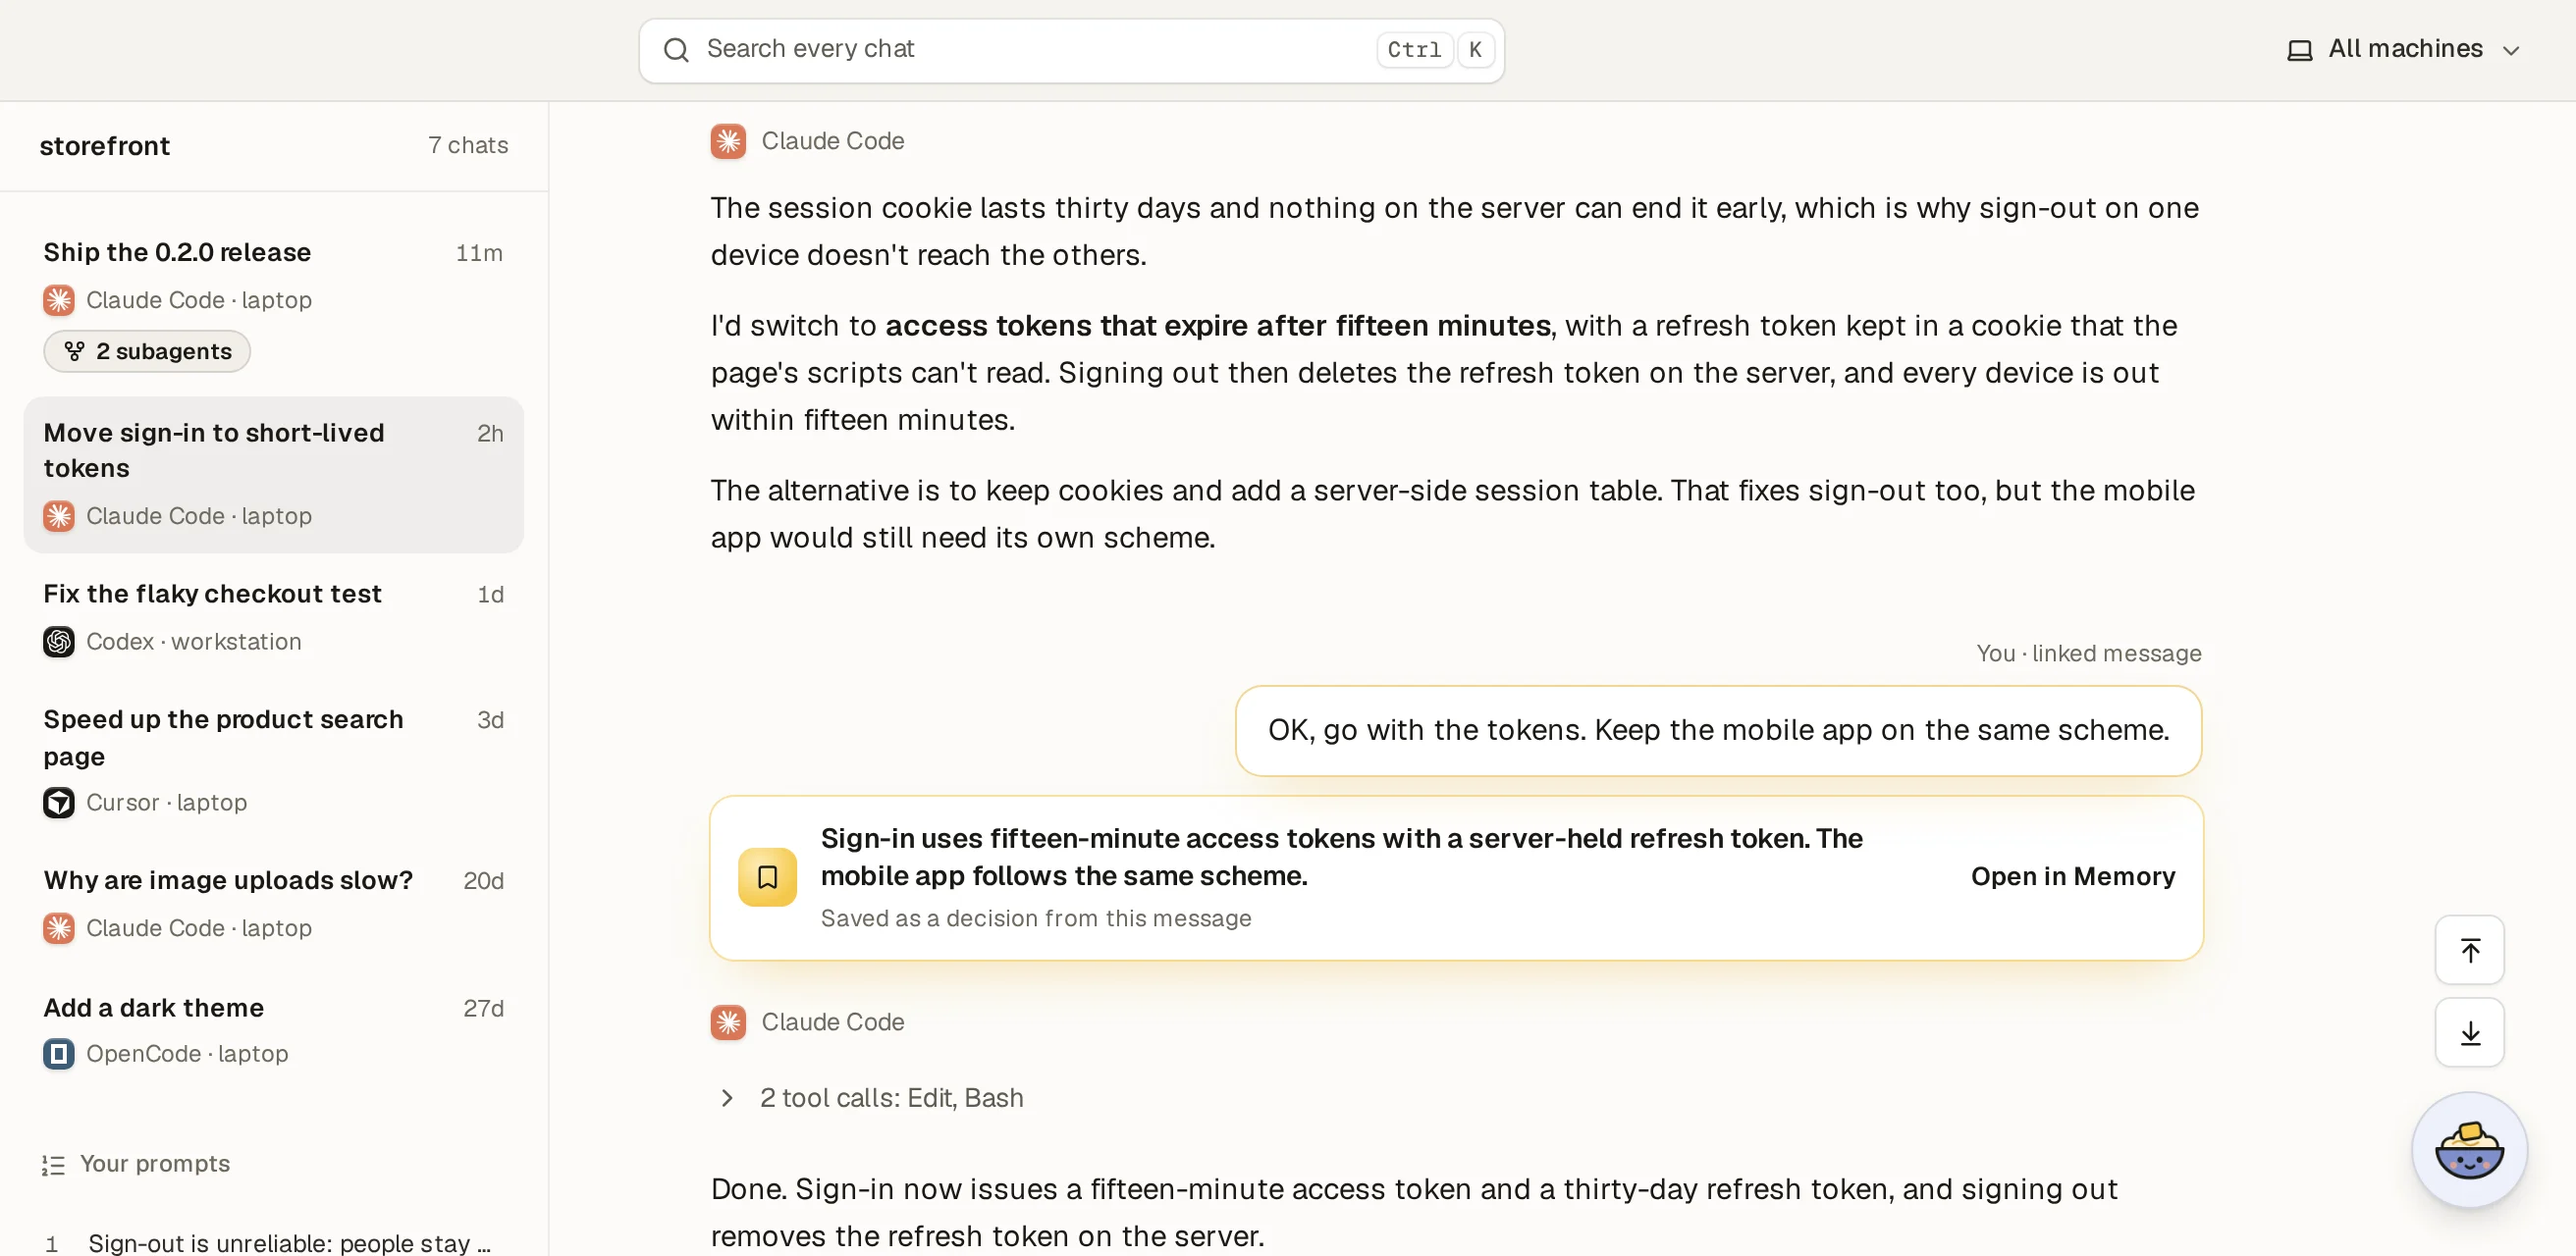
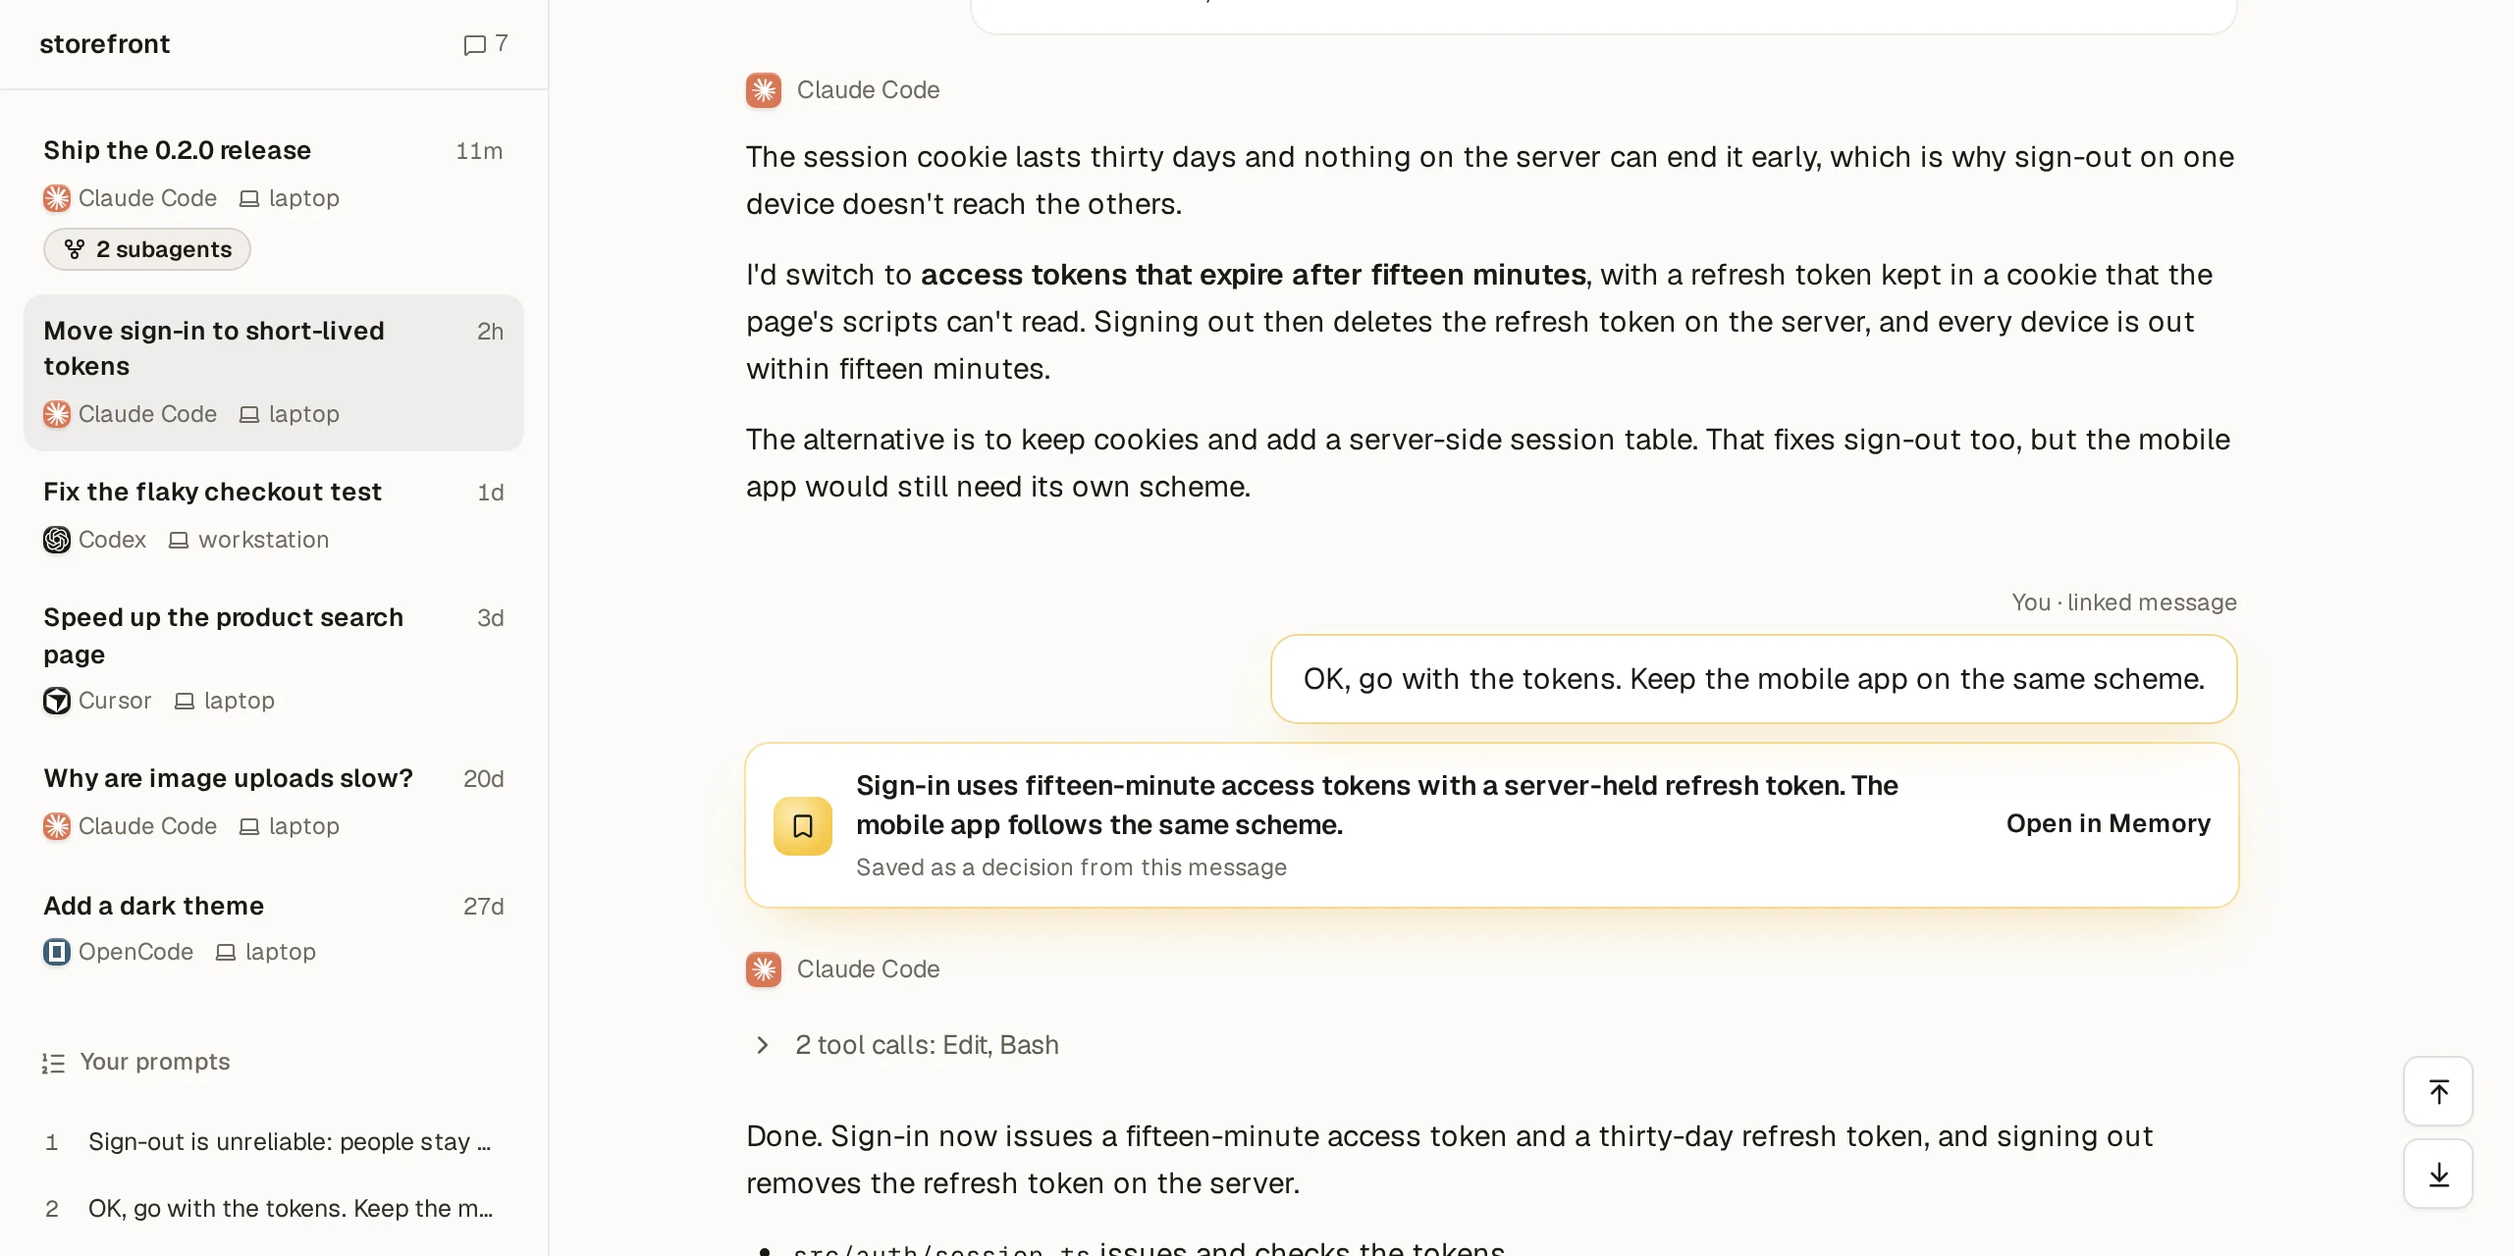
Recapture the dashboard pictures in the current design
The pictures that leave out the rail now start under the top bar too, so
they no longer show a bar cut off at the logo, and they keep the page's
1280 px width with the rail's current 220 px. The alt text says what the
search, overview and memory pictures show now.

diff --git a/site/scripts/screenshots.ts b/site/scripts/screenshots.ts
@@ -20,7 +20,7 @@ interface Shot {
   readonly route: string;
   readonly height?: number;
   readonly width?: number;
-  /** Leave out the rail, so the page itself reads at a readable size. */
+  /** Leave out the rail and the top bar, so the page itself reads at a readable size. */
   readonly withoutRail?: boolean;
   readonly prepare?: (page: Page) => Promise<void>;
 }
@@ -70,8 +70,10 @@ const shots: readonly Shot[] = [
   { name: "tools", route: "#/console", height: 600, withoutRail: true },
 ];
 
-/** The rail's width, added to a picture that leaves it out so the page keeps its width. */
-const railWidth = 252;
+/** The rail's usual width and the top bar's height, added to a picture that
+ * leaves them out so the page keeps its width and height. */
+const railWidth = 220;
+const topBarHeight = 52;
 
 const types: Record<string, string> = {
   ".html": "text/html",
@@ -110,7 +112,7 @@ try {
     const page = await browser.newPage({
       viewport: {
         width: (shot.width ?? 1280) + (shot.withoutRail ? railWidth : 0),
-        height: shot.height ?? 760,
+        height: (shot.height ?? 760) + (shot.withoutRail ? topBarHeight : 0),
       },
       deviceScaleFactor: 2,
       colorScheme: "light",
@@ -124,13 +126,20 @@ try {
       content:
         "aside.demo{display:none!important} *{animation:none!important;transition:none!important;caret-color:transparent!important}",
     });
+    // Mashy's button hangs a little below the top bar; it goes with the bar.
+    if (shot.withoutRail)
+      await page.addStyleTag({ content: "#mashy-fab{visibility:hidden!important}" });
     await shot.prepare?.(page);
     await page.waitForTimeout(300);
+    // Without the rail, the top bar's left end (the logo) is cut off, so the
+    // picture starts under the bar and shows only the page.
     const rail = shot.withoutRail ? await page.locator("#rail").boundingBox() : null;
+    const bar = shot.withoutRail ? await page.locator("#top").boundingBox() : null;
     const viewport = page.viewportSize() ?? { width: 0, height: 0 };
     const left = rail ? rail.x + rail.width : 0;
+    const top = bar ? bar.y + bar.height : 0;
     const png = await page.screenshot({
-      clip: { x: left, y: 0, width: viewport.width - left, height: viewport.height },
+      clip: { x: left, y: top, width: viewport.width - left, height: viewport.height - top },
     });
     await writeFile(new URL(`${shot.name}.webp`, output), await webp(page, png));
     await page.close();

diff --git a/docs/dashboard.md b/docs/dashboard.md
@@ -6,7 +6,7 @@ also [open a saved decision](https://getmash.io/demo/#/record/record-sign-in-tok
 and select **open the message** to see where it came from. The demo matches
 exact words and phrases in sample chats.
 
-![The dashboard overview: recent chats, recent memories, and chat counts by machine and agent](../assets/screenshots/overview.webp)
+![The dashboard overview: the chat to pick up where you left off, counts of chats, memories, machines and agents, then recent chats beside the memories waiting for confirmation](../assets/screenshots/overview.webp)
 
 - [Find and read a chat](#find-and-read-a-chat)
 - [Save a transcript](#save-a-transcript)
@@ -178,7 +178,7 @@ for agent, machine, project and date. A changed chip has a dashed border until
 you choose **Apply filters**. Applied filters appear as tags in the search box.
 Choose a tag to remove it.
 
-![Searching for “checkout” finds chats from two agents, with the matching words highlighted](../assets/screenshots/search.webp)
+![Searching for “checkout” finds a saved memory and chats from two agents, with the matching words highlighted and the selected chat previewed beside them](../assets/screenshots/search.webp)
 
 If a filtered search comes back empty, choose **Clear filters** to try the
 same query across your chats. If your dashboard opens the chat list, submit

diff --git a/docs/records.md b/docs/records.md
@@ -9,7 +9,7 @@ where it came up. Open the quote whenever you want to check the context.
 and select **open the message** below its quote. The demo jumps to the
 message about keeping the refresh token in the device keychain.
 
-![The memory page lists saved decisions and preferences with their project, machine and agent](../assets/screenshots/memory.webp)
+![The memory page lists saved decisions and preferences with their project, machine and agent, with the selected decision and its evidence beside them](../assets/screenshots/memory.webp)
 
 For your own history, run `mash dash`, open the address it prints, and choose
 **memory**. Open a record to see its source, revisions, and related records.
